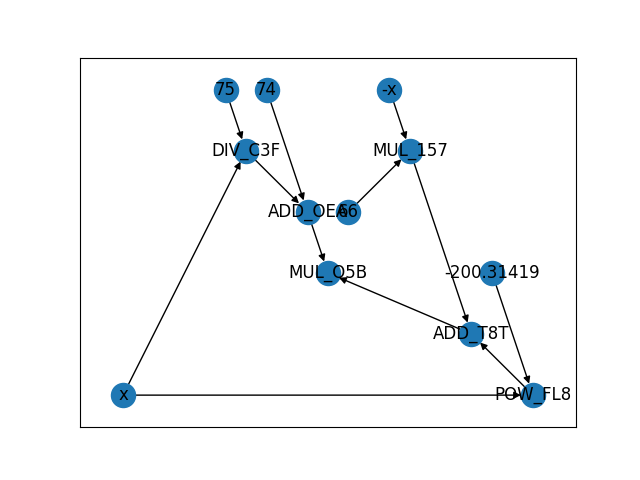
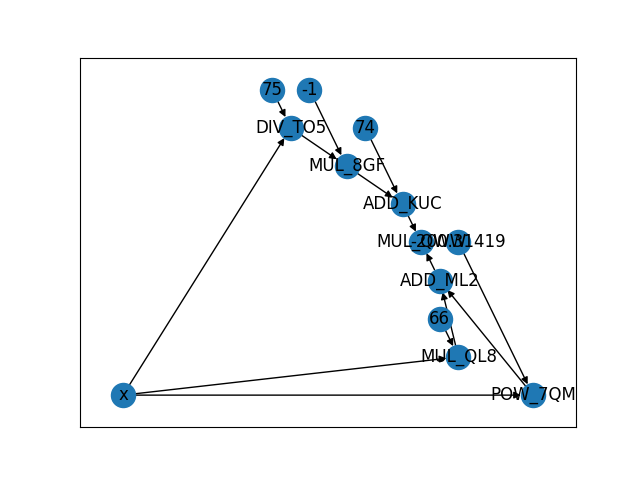
Tokenize changes -x to x * -1, still some errors

diff --git a/CalCoolUs/preprocess.py b/CalCoolUs/preprocess.py
@@ -23,6 +23,12 @@ class ShuntingYard:
 				r.pop(lowerBound + 1)
 				upperBound -= 1
 			lowerBound += 1
+		upperBound = len(r) - 1
+		for index in range(0, upperBound):
+			if r[index] == "-x":
+				r[index] = "x"
+				r.insert(index + 1, "*")
+				r.insert(index + 2, "-1")
 		return r[1:]
 
 	def isfloat(self, number):
@@ -56,7 +62,7 @@ class ShuntingYard:
 		outputQueue = []
 		operatorStack = []
 		for value in diffEquation:
-			if self.isfloat(value) or value == "x" or value == "-x":
+			if self.isfloat(value) or value == "x":
 				outputQueue.append(value)
 			elif value == "(":
 				operatorStack.append(value)
@@ -120,7 +126,7 @@ class ASTGraph:
 			counter = 0
 			while shuntyardresult[counter] not in self.operations:
 				counter += 1
-			print(f"Stopped @: {shuntyardresult[counter]}")
+			# print(f"Stopped @: {shuntyardresult[counter]}")
 
 			if (counter - 2 >= 0 and self.isValue(shuntyardresult[counter - 1]) and self.isValue(shuntyardresult[counter - 2])):
 				node_name = self.returnOperatorName(shuntyardresult[counter]) + "_" + ''.join(
@@ -134,6 +140,7 @@ class ASTGraph:
 				for _ in range(3):
 					shuntyardresult.pop(counter - 2)
 				shuntyardresult.insert(counter - 2, node_name)
+				
 
 		return graph
 

diff --git a/test.py b/test.py
@@ -5,8 +5,9 @@ from CalCoolUs.preprocess import ShuntingYard
 
 myshunt = ShuntingYard()
 
-shuntres = myshunt.getPostfix("( (( x^ -200.31419)) +66 * -x) * ( 74 + 75 / x )")
+shuntres = myshunt.getPostfix("( (( x^ -200.31419)) +66 * -x) * ( 74 + 75 /-x )")
 print(shuntres)
+
 from CalCoolUs.preprocess import ASTGraph
 
 myASTGraph = ASTGraph()
